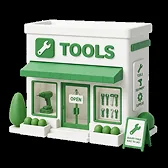
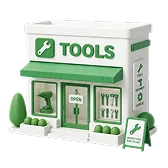
feat(info): иллюстрации способов получения на странице «Доставка»
Дизайнер прислал четыре 3D-значка (07.09.2026): магазин, курьер на скутере,
карта области и грузовик ТК. Теперь карточка способа получения может нести
картинку — третьей частью той же строки разметки:

    - Самовывоз | Заберите на складе | /info/delivery/pickup.webp

Отдельный синтаксис ради иллюстрации осваивать не нужно, а карточка без
картинки остаётся рабочей и в одном ряду с иллюстрированными не разъезжается.

Тексты карточек взяты из макета — они точнее моего пересказа: срок доставки,
условия по области, тарифы ТК. Режим самовывоза при этом указан новый
(Пн–Сб 9:00–19:00, Вс 9:00–15:00), а не нарисованный в макете «ежедневно до
20:00»: макет рисовался до смены режима.

Конвертер картинок больше не теряет прозрачность. PNG с вырезанным фоном он
переводил в RGB, и альфа заливалась чёрным — вокруг каждой иконки на светлой
странице получался чёрный квадрат.

Сюда же перенесён коммит с картинками шапок (фургон, терминал, ящик с
инструментом): он ушёл в ветку уже после мёржа #680 и в dev не попал.

diff --git a/frontend/components/info/InfoSection.test.tsx b/frontend/components/info/InfoSection.test.tsx
@@ -89,6 +89,26 @@ describe("InfoSection", () => {
     expect(screen.getByText("02")).toBeInTheDocument();
   });
 
+  it("иллюстрация карточки рисуется, а карточка без неё не ломается", () => {
+    render(
+      <InfoSection
+        section={section({
+          layout: "cards",
+          heading: "Способы получения",
+          items: [
+            { title: "Самовывоз", text: "На складе", image: "/info/delivery/pickup.webp" },
+            { title: "Курьер", text: "По городу" },
+          ],
+        })}
+      />,
+    );
+
+    const images = screen.getAllByRole("presentation");
+    expect(images).toHaveLength(1);
+    expect(images[0]).toHaveAttribute("src", expect.stringContaining("pickup.webp"));
+    expect(screen.getByText("Курьер")).toBeInTheDocument();
+  });
+
   it("неизвестный тип секции показывается текстом, а не пропадает", () => {
     render(
       <InfoSection

diff --git a/frontend/components/info/InfoSection.tsx b/frontend/components/info/InfoSection.tsx
@@ -125,6 +125,18 @@ function Cards({ section }: { section: Section }) {
             key={item.title}
             className="rounded-xl border border-line bg-surface p-5 transition-colors hover:border-accent/40"
           >
+            {item.image ? (
+              // Иллюстрация — часть содержимого карточки, а не фон: у неё своя
+              // высота и своё место над заголовком, поэтому карточки без картинки
+              // в том же ряду не разъезжаются.
+              <Image
+                src={item.image}
+                alt=""
+                width={96}
+                height={96}
+                className="mb-3 h-24 w-auto"
+              />
+            ) : null}
             <h3 className="text-base font-semibold text-ink">{item.title}</h3>
             {item.text ? (
               <p className="mt-2 text-sm leading-relaxed text-ink-2">{item.text}</p>

diff --git a/frontend/lib/info-pages.ts b/frontend/lib/info-pages.ts
@@ -23,7 +23,7 @@ export type InfoBlock =
   | { kind: "table"; head: string[]; rows: string[][] }
   | { kind: "note"; text: string };
 
-export type InfoItem = { title: string; text: string };
+export type InfoItem = { title: string; text: string; image?: string };
 
 /**
  * Секция страницы. `layout` задаёт вёрстку (шапка, карточки, шаги, вопросы,

diff --git a/apps/content/test_page_markup.py b/apps/content/test_page_markup.py
@@ -24,8 +24,8 @@ def test_карточки_разбираются_в_пары():
 
     assert sections[0]["layout"] == "cards"
     assert sections[0]["items"] == [
-        {"title": "Самовывоз", "text": "Заберите на 1-м Онежском, 12"},
-        {"title": "Курьер", "text": "Привезём в день заказа"},
+        {"title": "Самовывоз", "text": "Заберите на 1-м Онежском, 12", "image": ""},
+        {"title": "Курьер", "text": "Привезём в день заказа", "image": ""},
     ]
     # Список превратился в карточки и не должен продублироваться абзацами.
     assert sections[0]["blocks"] == []
@@ -35,7 +35,7 @@ def test_пункт_без_разделителя_не_теряется():
     sections = parse_page_body("## Шаги\n:шаги\n- Свяжитесь с нами\n")
 
     # Человек забыл «|» — это не повод потерять пункт или уронить страницу.
-    assert sections[0]["items"] == [{"title": "Свяжитесь с нами", "text": ""}]
+    assert sections[0]["items"] == [{"title": "Свяжитесь с нами", "text": "", "image": ""}]
 
 
 def test_вопросы_становятся_парами_вопрос_ответ():
@@ -114,3 +114,16 @@ def test_таблица_из_разметки_статей_работает():
     table = sections[0]["blocks"][0]
     assert table["kind"] == "table"
     assert table["head"] == ["Зона", "Цена"]
+
+
+def test_у_карточки_может_быть_иллюстрация():
+    sections = parse_page_body(
+        "## Способы получения\n:карточки\n"
+        "- Самовывоз | Заберите на складе | /info/delivery/pickup.webp\n"
+        "- Курьер | Привезём по городу\n"
+    )
+
+    # Картинка — третья часть той же строки: отдельный синтаксис ради неё
+    # человеку осваивать не нужно, а карточка без картинки остаётся рабочей.
+    assert sections[0]["items"][0]["image"] == "/info/delivery/pickup.webp"
+    assert sections[0]["items"][1]["image"] == ""

diff --git a/apps/content/page_markup.py b/apps/content/page_markup.py
@@ -11,7 +11,7 @@
 
     ## Способы получения
     :карточки
-    - Самовывоз | Заберите заказ на 1-м Онежском, 12
+    - Самовывоз | Заберите заказ на 1-м Онежском, 12 | /info/delivery/pickup.webp
     - Курьер по Пензе | Привезём в течение дня
 
     ## Что делать
@@ -76,8 +76,15 @@ SEPARATOR = "|"
 
 
 def _split_pair(item: str) -> dict:
-    title, _, text = item.partition(SEPARATOR)
-    return {"title": title.strip(), "text": text.strip()}
+    """«Заголовок | текст | /картинка.webp» — картинка необязательна.
+
+    Третья часть отделена тем же знаком, что и вторая: человеку, который уже
+    научился писать «Самовывоз | Заберите на складе», не нужно осваивать второй
+    синтаксис ради иллюстрации.
+    """
+    title, _, rest = item.partition(SEPARATOR)
+    text, _, image = rest.partition(SEPARATOR)
+    return {"title": title.strip(), "text": text.strip(), "image": image.strip()}
 
 
 def _parse_meta_line(line: str) -> tuple[str, str] | None:
@@ -171,7 +178,9 @@ def parse_page_body(body: str) -> list[dict]:
                 if layout in PAIR_LAYOUTS:
                     items.extend(_split_pair(item) for item in block["items"])
                 else:
-                    items.extend({"title": item, "text": ""} for item in block["items"])
+                    items.extend(
+                        {"title": item, "text": "", "image": ""} for item in block["items"]
+                    )
             blocks = kept
 
         if images:

diff --git a/scripts/img2webp.py b/scripts/img2webp.py
@@ -57,7 +57,11 @@ def convert(
 ) -> tuple[int, int, int]:
     # Телефонные снимки приходят с EXIF-поворотом; без exif_transpose портрет
     # ляжет боком.
-    image = ImageOps.exif_transpose(Image.open(source)).convert("RGB")
+    image = ImageOps.exif_transpose(Image.open(source))
+    # Прозрачность сохраняем: иконки с вырезанным фоном приходят PNG с альфой, и
+    # перевод в RGB заливал бы этот фон чёрным — на светлой странице получался
+    # чёрный квадрат вокруг картинки.
+    image = image.convert("RGBA" if "A" in image.getbands() else "RGB")
     if ratio is not None:
         image = center_crop(image, ratio)
     if width is not None and image.width > width:

diff --git a/data/info_pages/delivery.md b/data/info_pages/delivery.md
@@ -11,10 +11,10 @@ meta_description: Самовывоз из магазина, курьер по П
 
 ## Способы получения
 :карточки
-- Самовывоз из магазина | Пенза, 1-й Онежский проезд, 12. Бесплатно, заказ ждёт вас на складе.
-- Курьер по Пензе | Привезём по городу; стоимость зависит от зоны — смотрите таблицу ниже.
-- Пензенская область | Доставляем по области, сроки и стоимость уточняет менеджер при подтверждении заказа.
-- Транспортные компании | СДЭК и другие перевозчики по России, отправляем со склада после оплаты.
+- Самовывоз из магазина | Пенза, 1-й Онежский проезд, 12. Пн–Сб с 9:00 до 19:00, Вс с 9:00 до 15:00. Заказ можно забрать в день заказа при наличии на складе. | /info/delivery/pickup.webp
+- Курьер по Пензе | Доставка курьером по городу. Срок доставки — 1 день. Стоимость и условия уточняйте у менеджера. | /info/delivery/courier.webp
+- Пензенская область | Доставка курьером в населённые пункты Пензенской области. Сроки и стоимость рассчитываются индивидуально. | /info/delivery/region.webp
+- ТК СДЭК и другие | Отправляем заказы транспортными компаниями по всей России. Сроки зависят от региона, стоимость — по тарифам ТК. | /info/delivery/shipping.webp
 
 ## Стоимость доставки по Пензе
 | Зона | Сумма заказа | Стоимость доставки |
